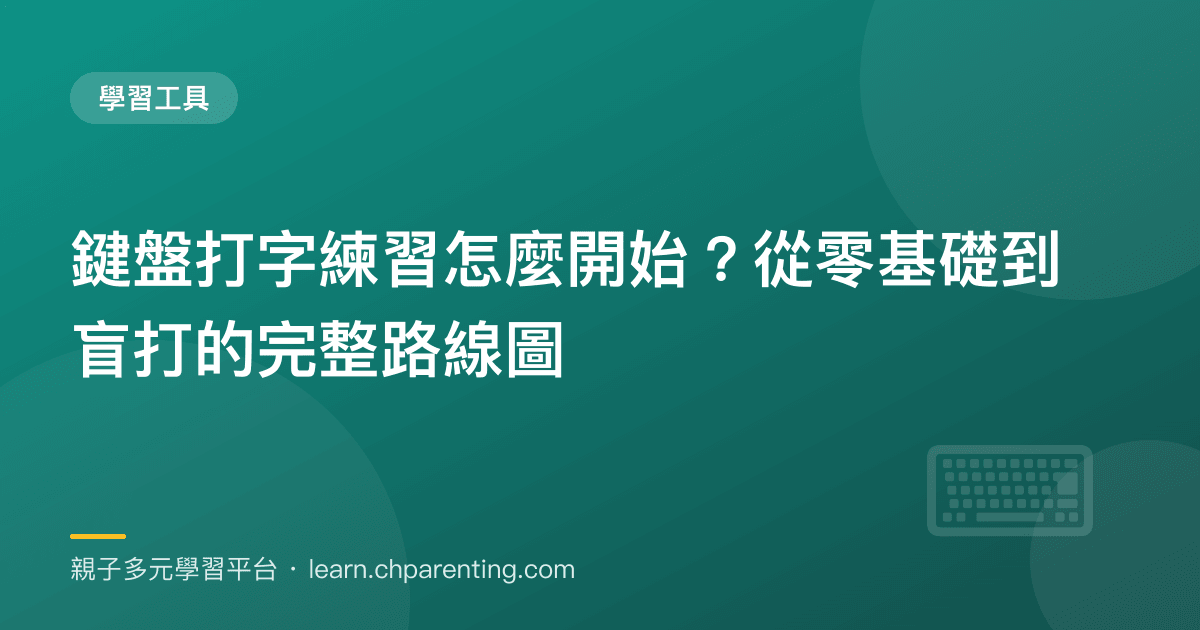
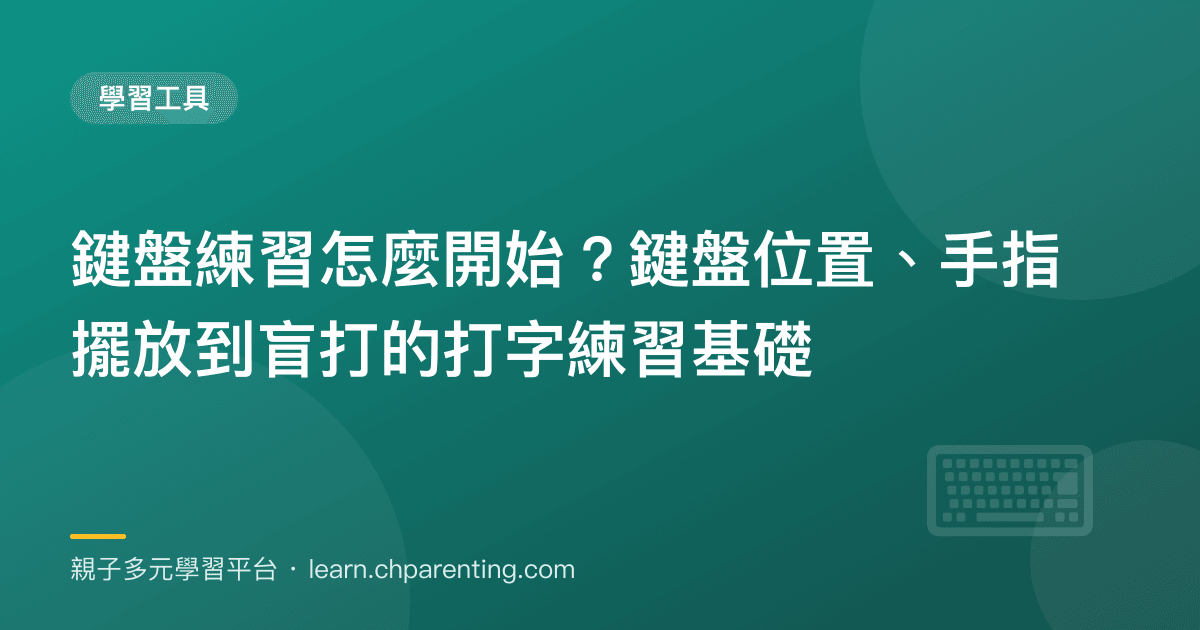
打字文修正與新排程文
- keyboard-typing-beginner：移除打字工具實際沒有的功能描述，補上鍵盤位置對照表與注音鍵盤位置；標題改成 Bing 有曝光的字（鍵盤練習／鍵盤位置／打字練習基礎）
- typing-game 描述改成實際有的四種玩法
- 新排程文：國小數學應用題（10/12）

Changed region(s): [[0.1542, 0.3619, 0.8942, 0.4524], [0.0617, 0.5127, 0.6783, 0.6032], [0.0617, 0.1206, 0.2158, 0.2111]]

diff --git a/src/app/typing-game/layout.tsx b/src/app/typing-game/layout.tsx
@@ -2,7 +2,7 @@ import type { Metadata } from "next";
 
 export const metadata: Metadata = {
   title: "免費兒童打字練習 | 鍵盤入門・速度訓練 | learn.chparenting.com",
-  description: "免費兒童打字練習：從認識鍵盤與手指位置開始，句子打字、落下文字、速度測試、限時挑戰四種模式，中英文都能練，即時顯示速度與正確率。適合剛接觸電腦的國小生，不用下載、不用註冊。",
+  description: "國小生免費打字練習：句子打字、落下文字、限時挑戰、速度測試四種玩法，中文和英文打字都能練，即時顯示速度與正確率。不用下載、不用註冊，打開就能練。",
   alternates: { canonical: "https://learn.chparenting.com/typing-game" },
 };
 

diff --git a/src/content/blog-scheduled/elementary-math-word-problems.md b/src/content/blog-scheduled/elementary-math-word-problems.md
@@ -1,0 +1,145 @@
+---
+title: "國小數學應用題怎麼練？五種最常錯的題型與四步驟解題法"
+description: "孩子計算都會，遇到應用題就不會列式？整理國小三到六年級最常錯的五種應用題題型、四步驟解題法，以及在家陪練的做法，附免費線上題目練習。"
+date: "2026-10-12"
+category: "數學學習"
+tags: ["數學應用題", "國小數學", "數學練習", "小六應用題", "國小數學題目練習", "解題技巧"]
+author: "Mommy Wisdom"
+image: "/images/blog/elementary-math-word-problems.png"
+faq:
+  - q: "孩子計算都對，為什麼應用題就是不會？"
+    a: "因為應用題考的是兩件事：讀懂題目，以及決定要用哪一種運算。計算只是最後一步。孩子卡住的地方通常在前面，也就是不知道題目在問什麼，或是看到數字就急著算。練習時要把重點放在列式之前的步驟。"
+  - q: "應用題一定要畫圖嗎？"
+    a: "不一定每題都要，但遇到「比多比少」「倍數」「分數」和「速率」這幾類，畫線段圖會清楚很多。畫圖的目的是把文字變成看得見的數量關係，圖畫得醜沒關係，關係畫對就好。"
+  - q: "一天要練幾題應用題才夠？"
+    a: "三到五題就夠了，重點是每一題都要完整走過讀題、找條件、列式、檢查四個步驟。一次寫二十題但每題都跳過讀題，效果反而不好。"
+  - q: "孩子看到題目很長就不想讀，怎麼辦？"
+    a: "先讓他只做一件事：把題目最後的問句圈起來，說出「這題要我算什麼」。知道終點之後再回頭讀條件，長題目就不會那麼可怕。也可以由家長唸題目、孩子用自己的話重講一次。"
+---
+
+## 會算，不代表會解應用題
+
+很多家長都遇過這種狀況：孩子的計算題幾乎全對，一到應用題就空白，或是把題目裡的數字隨便加一加、乘一乘。
+
+這不是粗心，也不是不夠聰明。計算題考的是「怎麼算」，應用題考的是「要算什麼」。後者需要先讀懂一段文字、找出數量之間的關係，再決定用哪一種運算。這是另一種能力，需要另外練。
+
+這篇整理國小三到六年級最常出錯的五種應用題，以及一套每一題都能用的四步驟解題法。文中提到的題型，在站上的[應用題練習](/math/word-problems)都可以直接做。
+
+## 四步驟解題法
+
+不管哪一種題型，都走同樣的四步：
+
+| 步驟 | 做什麼 | 孩子要說出口的話 |
+|------|-------|----------------|
+| 1. 讀題 | 把最後的問句圈起來 | 「這題要我算的是⋯⋯」 |
+| 2. 找條件 | 把題目給的數字和單位畫線 | 「題目告訴我⋯⋯」 |
+| 3. 列式 | 決定用加、減、乘、除的哪一種 | 「所以我要用⋯⋯因為⋯⋯」 |
+| 4. 檢查 | 答案合不合理、單位對不對 | 「答案是⋯⋯，合理嗎？」 |
+
+關鍵是第 1 步和第 4 步。大多數孩子會直接跳到第 3 步，看到數字就開始算。
+
+用一題示範：
+
+> 小明有 50 元，買了 3 枝 8 元的鉛筆，找回多少元？
+
+1. **讀題**：要算的是「找回多少元」。
+2. **找條件**：有 50 元；鉛筆一枝 8 元，買 3 枝。
+3. **列式**：先算花了多少，8 × 3 = 24；再算剩多少，50 − 24 = 26。
+4. **檢查**：26 + 24 = 50，合理。單位是元。
+
+這題需要兩個步驟。很多孩子會寫成 50 − 8 = 42，因為他只看到「50」和「8」，漏掉了「3 枝」。
+
+## 最常錯的五種題型
+
+### 題型一：比多、比少
+
+> 一班有 28 人，二班比一班多 5 人，兩班共有多少人？
+
+**常見的錯**：看到「多」就加、看到「少」就減，而且只算一步。寫成 28 + 5 = 33 就停了，但題目問的是兩班「共」多少人。
+
+**怎麼練**：畫兩條線段，一條代表一班，一條代表二班，二班那條多出一小段。圖畫出來，孩子就會看到要先算出二班，再把兩條加起來。
+
+基本的加減如果還不穩，可以先回到[加減乘除](/math/basic-arithmetic)練熟。
+
+### 題型二：倍數
+
+> 媽媽的年齡是小華的 4 倍，小華 8 歲，媽媽幾歲？
+> 36 是 9 的幾倍？
+
+**常見的錯**：分不清「A 是 B 的幾倍」和「A 的幾倍是多少」。前者用除法，後者用乘法。
+
+**怎麼練**：讓孩子先判斷「誰比較大」。第一題媽媽比較大，所以答案一定大於 8，要用乘的。第二題問的是「幾倍」，答案是一個倍數而不是一個數量，要用除的。
+
+九九乘法還不夠快的孩子，做倍數題會很吃力，可以先看[九九乘法的遊戲練法](/blog/multiplication-table-games)。
+
+### 題型三：分數的應用
+
+> 哥哥 15 歲，弟弟的年齡是哥哥的 1/3，弟弟幾歲？
+
+**常見的錯**：不知道「的 1/3」是乘法。很多孩子會寫成 15 − 1/3 或 15 ÷ 1/3。
+
+**怎麼練**：把「的」翻譯成「乘」。「哥哥的 1/3」就是 15 × 1/3。也可以用畫的：把 15 分成 3 等份，取其中 1 份。
+
+分數本身的觀念如果不穩，應用題一定會卡。可以先做[分數練習](/math/fractions)，高年級再接[小數](/math/decimals)和[百分率](/math/percentages)。
+
+### 題型四：速率、距離、時間
+
+> 時速 60 公里，走了 3 小時，一共走了多遠？
+> 300 公里的路程，時速 50 公里，要走多久？
+
+**常見的錯**：三個公式背混了。
+
+**怎麼練**：只記一個就好，「距離 = 速率 × 時間」。另外兩個都是從它變出來的：知道距離和速率，要求時間，就是距離 ÷ 速率。
+
+檢查的時候看單位。時速的單位是「公里／小時」，乘上小時之後剩下公里，所以答案是距離。單位對了，算式通常就對了。
+
+這一類題目常常搭配時間換算，可以一起練[時間與長度](/math/time-measurement)。
+
+### 題型五：多步驟題
+
+> 一箱蘋果有 24 顆，賣掉 9 顆之後，把剩下的平分給 5 個人，每人得到幾顆？
+
+**常見的錯**：只做了一步就交卷，或是步驟的順序弄反。
+
+**怎麼練**：在列式之前，先用中文把步驟講一次：「先算剩下幾顆，再分給 5 個人。」能用講的講清楚，列式就不會漏。
+
+五、六年級的應用題大多是多步驟題，而且會把分數、小數、百分率混在一起。這個階段要練的是「拆題」，把一個大問題拆成兩三個小問題。
+
+## 在家陪練的三個做法
+
+### 1. 請孩子把題目講給你聽
+
+不要問「會不會」，改問「這題在說什麼？」請他用自己的話把題目重講一次，不用出現數字也可以：「有一個人買東西，要算他剩多少錢。」講得出來，代表他讀懂了。
+
+### 2. 先不要算
+
+拿三到五題，只做前三步：讀題、找條件、列式。不用算出答案。這個練習專門對付「看到數字就算」的習慣，而且因為不用計算，孩子的壓力會小很多。
+
+### 3. 錯的題目不要擦掉
+
+錯了就在旁邊重寫，把錯的留著。一週後回頭看，孩子會發現自己的錯誤集中在某一兩種題型。知道錯在哪一類，比多寫二十題有用。
+
+## 各年級的重點
+
+| 年級 | 應用題的重點 | 可以搭配的練習 |
+|------|------------|---------------|
+| 三年級 | 兩步驟的加減乘除、倍數 | [加減乘除](/math/basic-arithmetic) |
+| 四年級 | 分數、時間與長度的換算 | [分數](/math/fractions)、[時間與長度](/math/time-measurement) |
+| 五年級 | 小數、面積、多步驟題 | [小數](/math/decimals)、[幾何](/math/geometry) |
+| 六年級 | 速率、百分率、比例 | [百分率](/math/percentages)、[應用題](/math/word-problems) |
+
+如果孩子整體的數學信心已經受到影響，建議先看[孩子數學不好怎麼辦](/blog/math-struggling-kids)，從找出斷點開始。
+
+## 每天十分鐘的練習安排
+
+| 星期 | 做什麼 |
+|------|-------|
+| 一 | 三題應用題，完整走四步驟 |
+| 二 | 五題「只列式不計算」 |
+| 三 | 三題應用題，完整走四步驟 |
+| 四 | 玩[數學衝刺](/board-games/math-rush)，練計算速度 |
+| 五 | 回頭看這週錯的題目，重做一次 |
+
+應用題不需要大量刷題。每天幾題、每題都把步驟走完，幾週之後孩子讀題的方式就會不一樣。
+
+想開始的話，可以先到[應用題練習](/math/word-problems)做幾題，看看孩子目前卡在哪一種題型。

diff --git a/src/content/blog/keyboard-typing-beginner.md b/src/content/blog/keyboard-typing-beginner.md
@@ -1,9 +1,9 @@
 ---
-title: "鍵盤打字練習怎麼開始？從零基礎到盲打的完整路線圖"
-description: "孩子從來沒練過打字，不知道從哪裡開始？手指位置、常見錯誤、30天練習計畫，一篇搞定。"
+title: "鍵盤練習怎麼開始？鍵盤位置、手指擺放到盲打的打字練習基礎"
+description: "國小生第一次練打字，從鍵盤位置開始：每根手指負責哪些鍵、注音在鍵盤上的位置、初學者常犯的錯，附 30 天練習計畫與免費線上打字練習。"
 date: "2026-03-11"
 category: "學習工具"
-tags: ["鍵盤打字練習", "鍵盤練習", "打字入門", "盲打練習", "兒童學習"]
+tags: ["鍵盤練習", "鍵盤位置", "打字練習基礎", "盲打練習", "國小打字練習", "注音打字"]
 author: "Vega"
 image: "/images/blog/keyboard-typing-beginner.png"
 faq:
@@ -12,7 +12,7 @@ faq:
   - q: "練打字需要買特別的鍵盤嗎？"
     a: "不需要，一般電腦鍵盤就可以練習。如果孩子手比較小，可以考慮較小尺寸的鍵盤，比較好操作。"
   - q: "孩子練打字一直看鍵盤怎麼辦？"
-    a: "這很正常，可以用便利貼遮住部分按鍵，強迫孩子記位置。也可以用本文推薦的工具，它會提示正確手指位置。"
+    a: "這很正常。可以先把文中的鍵盤位置對照表印出來放在螢幕旁邊，讓孩子看表不看鍵盤；熟了之後再用便利貼遮住部分按鍵，練習用摸的。"
 ---
 
 ## 打字姿勢和手指位置：一切從這裡開始
@@ -25,6 +25,43 @@ faq:
 
 坐姿方面，背打直、雙腳踩地、螢幕跟眼睛平行。如果孩子太矮，記得墊個座墊，不要讓他仰著頭看螢幕，脖子會很痠。
 
+## 鍵盤位置對照表：每根手指負責哪些鍵
+
+基準鍵放好之後，每根手指只負責自己那一直排，往上、往下各一格。食指比較靈活，所以要多管一排。
+
+| 手指 | 左手負責 | 右手負責 |
+|------|---------|---------|
+| 小指 | 1、Q、A、Z | 0、P、;、/ |
+| 無名指 | 2、W、S、X | 9、O、L、. |
+| 中指 | 3、E、D、C | 8、I、K、, |
+| 食指 | 4、R、F、V 和 5、T、G、B | 7、U、J、M 和 6、Y、H、N |
+| 大拇指 | 空白鍵 | 空白鍵 |
+
+Shift、Enter、Tab 這些在鍵盤兩側的功能鍵，都是小指負責。
+
+建議把這張表印出來貼在螢幕旁邊。孩子忘記的時候看表，不要低頭看鍵盤，這是養成盲打最快的方法。
+
+### 注音在鍵盤上的位置
+
+台灣最常用的注音輸入法（標準注音鍵盤）是照注音符號的順序，由上到下、由左到右排的。知道這個規則，孩子記起來會快很多。
+
+| 直排 | 由上到下 |
+|------|---------|
+| 第 1 排 | ㄅ ㄆ ㄇ ㄈ |
+| 第 2 排 | ㄉ ㄊ ㄋ ㄌ |
+| 第 3 排 | （聲調 ˇ）ㄍ ㄎ ㄏ |
+| 第 4 排 | （聲調 ˋ）ㄐ ㄑ ㄒ |
+| 第 5 排 | ㄓ ㄔ ㄕ ㄖ |
+| 第 6 排 | （聲調 ˊ）ㄗ ㄘ ㄙ |
+| 第 7 排 | （聲調 ˙）ㄧ ㄨ ㄩ |
+| 第 8 排 | ㄚ ㄛ ㄜ ㄝ |
+| 第 9 排 | ㄞ ㄟ ㄠ ㄡ |
+| 第 10 排 | ㄢ ㄣ ㄤ ㄥ |
+
+ㄦ 在最右上角的「-」鍵，一聲是空白鍵。所以基準鍵的左手四指剛好放在 ㄇ、ㄋ、ㄎ、ㄑ 上，右手四指在 ㄨ、ㄜ、ㄠ、ㄤ 上。
+
+聲母都在左半邊、韻母都在右半邊，打一個字通常是左手先、右手後，兩隻手輪流。這也是注音打字可以打得很快的原因。
+
 ## 初學者最常犯的 3 個錯誤
 
 陪孩子練打字這幾年，我發現有三個錯誤幾乎每個小朋友都會犯。提早知道，就能提早避免。
@@ -35,7 +72,7 @@ faq:
 
 **錯誤三：練習時間不規律。** 今天練 30 分鐘、明天不練、後天又練一小時，這樣的效果非常差。**每天固定 10 到 15 分鐘**，一個月後你會嚇到孩子進步多少。
 
-想讓孩子用有趣的方式矯正這些問題，可以試試 [打字練習工具](/typing-game)，它會自動提示正確的手指位置和按鍵方式。
+位置記熟之後，可以用站上的[免費打字練習](/typing-game)實際打打看，畫面會即時顯示速度和正確率。
 
 ## 從注音到英打，練習順序建議
 
@@ -57,12 +94,18 @@ faq:
 
 練打字最重要的就是要有一個**好用、免費、孩子願意持續用**的工具。我試過很多線上打字練習網站，最推薦的是我們平台的 **[打字練習](/typing-game)**。
 
-這個工具特別適合剛入門的孩子，因為它有幾個特點：
+它有四種玩法，中文、英文都可以練，不用下載也不用註冊：
 
-- **會顯示手指位置提示**，孩子不用背就知道該用哪根手指
-- **難度循序漸進**，從基準鍵開始慢慢擴展到全鍵盤
-- **即時回饋**，打對打錯馬上看到，不用等老師批改
-- **可以記錄成績**，每天看到自己的進步曲線
+| 玩法 | 怎麼玩 | 練到什麼 |
+|------|-------|---------|
+| 句子打字 | 照著完整的句子一個字一個字打 | 正確率 |
+| 落下文字 | 在文字掉到底之前打完它 | 反應速度 |
+| 限時挑戰 | 60 秒內打越多字越好 | 耐力 |
+| 速度測試 | 測量每分鐘打幾個字 | 整體程度 |
+
+打的時候畫面會即時顯示速度和正確率，打對打錯馬上看得到。
+
+要先說明的是，這個工具**不會提示手指該放哪裡**，它是讓孩子把已經記住的位置拿來實際打。所以順序是：先用上面的對照表把位置記熟，再來這裡練。剛開始建議選「句子打字」和最簡單的難度，先求打對，不要管速度。
 
 配合英文打字練習的話，也可以搭配 [英檢初級練習](/elementary)，邊練打字邊記英文單字，一舉兩得。如果孩子也在學日文，[JLPT N5 練習](/jlpt-n5) 也是不錯的搭配選擇。
 
@@ -93,4 +136,4 @@ faq:
 - [兒童打字練習免費工具推薦](/blog/children-typing-practice)——完整的免費工具評比和推薦，幫你挑到最適合的
 - [打字速度標準參考](/blog/typing-speed-standard)——了解不同年齡的孩子打字速度該達到什麼程度
 
-不管孩子現在幾歲、有沒有打字基礎，只要今天開始練，一個月後一定會看到改變。打開 [打字練習](/typing-game)，從基準鍵開始吧！
+不管孩子現在幾歲、有沒有打字基礎，只要今天開始練，一個月後一定會看到改變。先把鍵盤位置對照表印出來，再打開[打字練習](/typing-game)，從「句子打字」開始吧！

diff --git a/src/content/blog/children-typing-practice.md b/src/content/blog/children-typing-practice.md
@@ -81,7 +81,7 @@ faq:
 
 如果你家孩子正準備開始練打字，除了本文推薦的 [打字練習工具](/typing-game) 之外，以下這些文章也很值得參考：
 
-- [鍵盤打字練習怎麼開始？從零基礎到盲打的完整路線圖](/blog/keyboard-typing-beginner)——適合完全沒碰過鍵盤的孩子，從手指位置開始教起
+- [鍵盤練習怎麼開始？鍵盤位置、手指擺放到盲打](/blog/keyboard-typing-beginner)——適合完全沒碰過鍵盤的孩子，從手指位置開始教起
 - [中英文打字練習一次搞定](/blog/chinese-english-typing)——台灣孩子必看，教你怎麼同時把中英文打字都學好
 
 打字是一個一旦學會就終身受用的技能，而且越早開始越輕鬆。不用等到學校要求才練，今天就帶孩子打開 [打字練習](/typing-game) 試試看吧！
